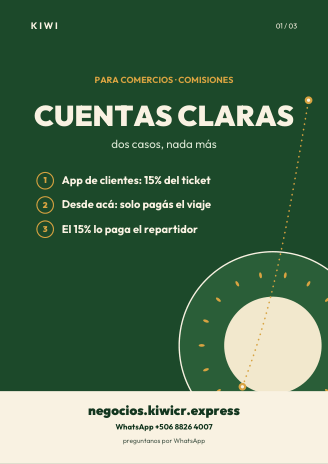
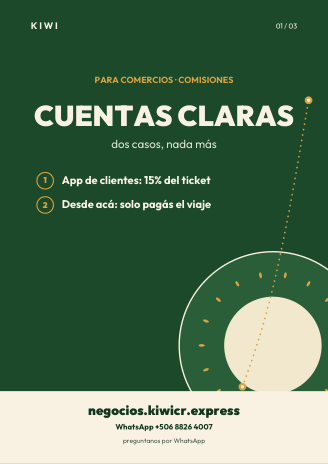
Remove driver line from merchant commission poster

Changed region(s): [[0.0915, 0.4526, 0.6098, 0.5129]]

diff --git a/afiches/build_comisiones.py b/afiches/build_comisiones.py
@@ -20,7 +20,7 @@ def main():
     page(
         c, "01", "PARA COMERCIOS · COMISIONES", "CUENTAS CLARAS",
         "dos casos, nada más",
-        ["App de clientes: 15% del ticket", "Desde acá: solo pagás el viaje", "El 15% lo paga el repartidor"],
+        ["App de clientes: 15% del ticket", "Desde acá: solo pagás el viaje"],
         "negocios.kiwicr.express", "preguntanos por WhatsApp",
         "WhatsApp +506 8826 4007",
         GOLD, (W - 100, 215),
